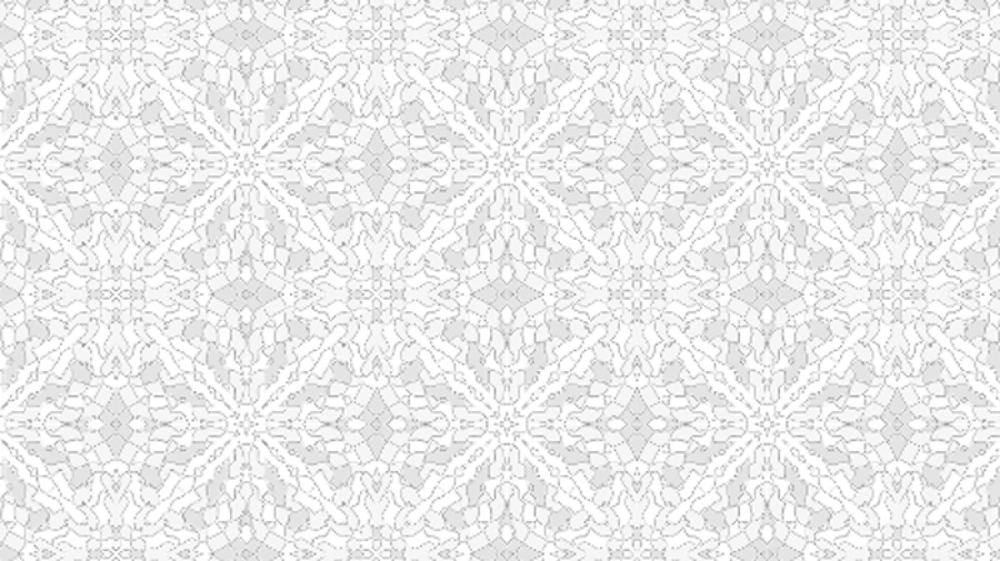
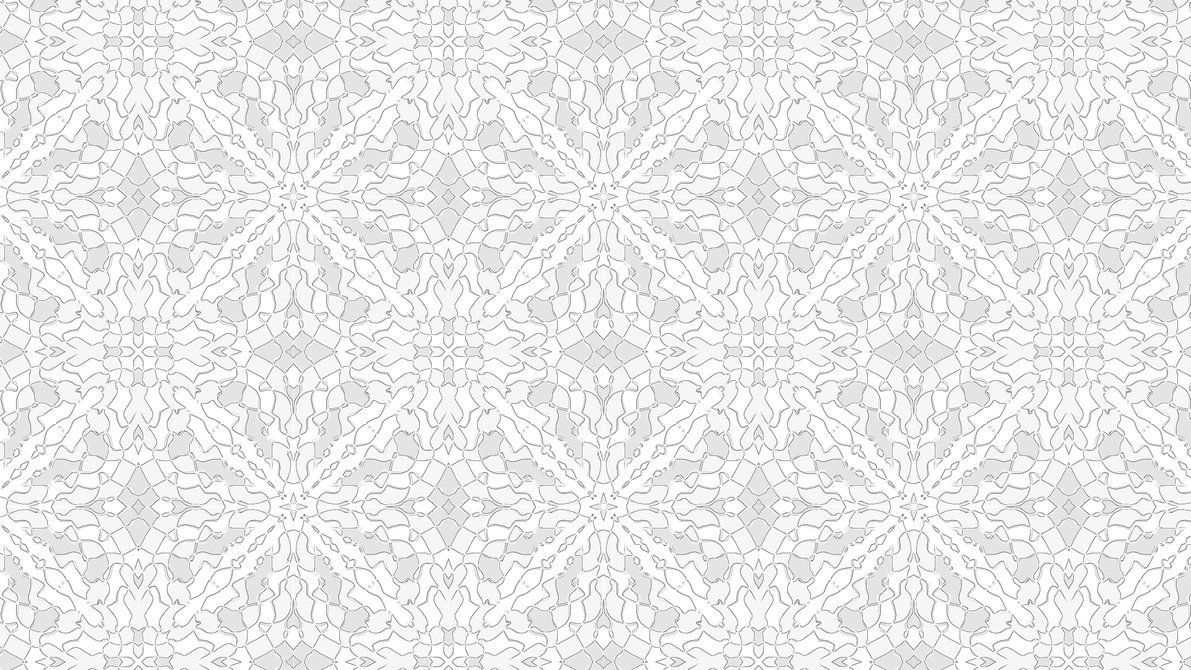
compare

diff --git a/assets/css/style2.css b/assets/css/style2.css
@@ -2,7 +2,7 @@
 @import url(https://fonts.googleapis.com/css?family=Playfair+Display);
 
 body {
-    background-image: url("../../wo.jpg") ;
+    background-image: url("../../test.jpg") ;
     font-family: 'Playfair Display', serif;
     font-size: 15px;
     font-color: black;
